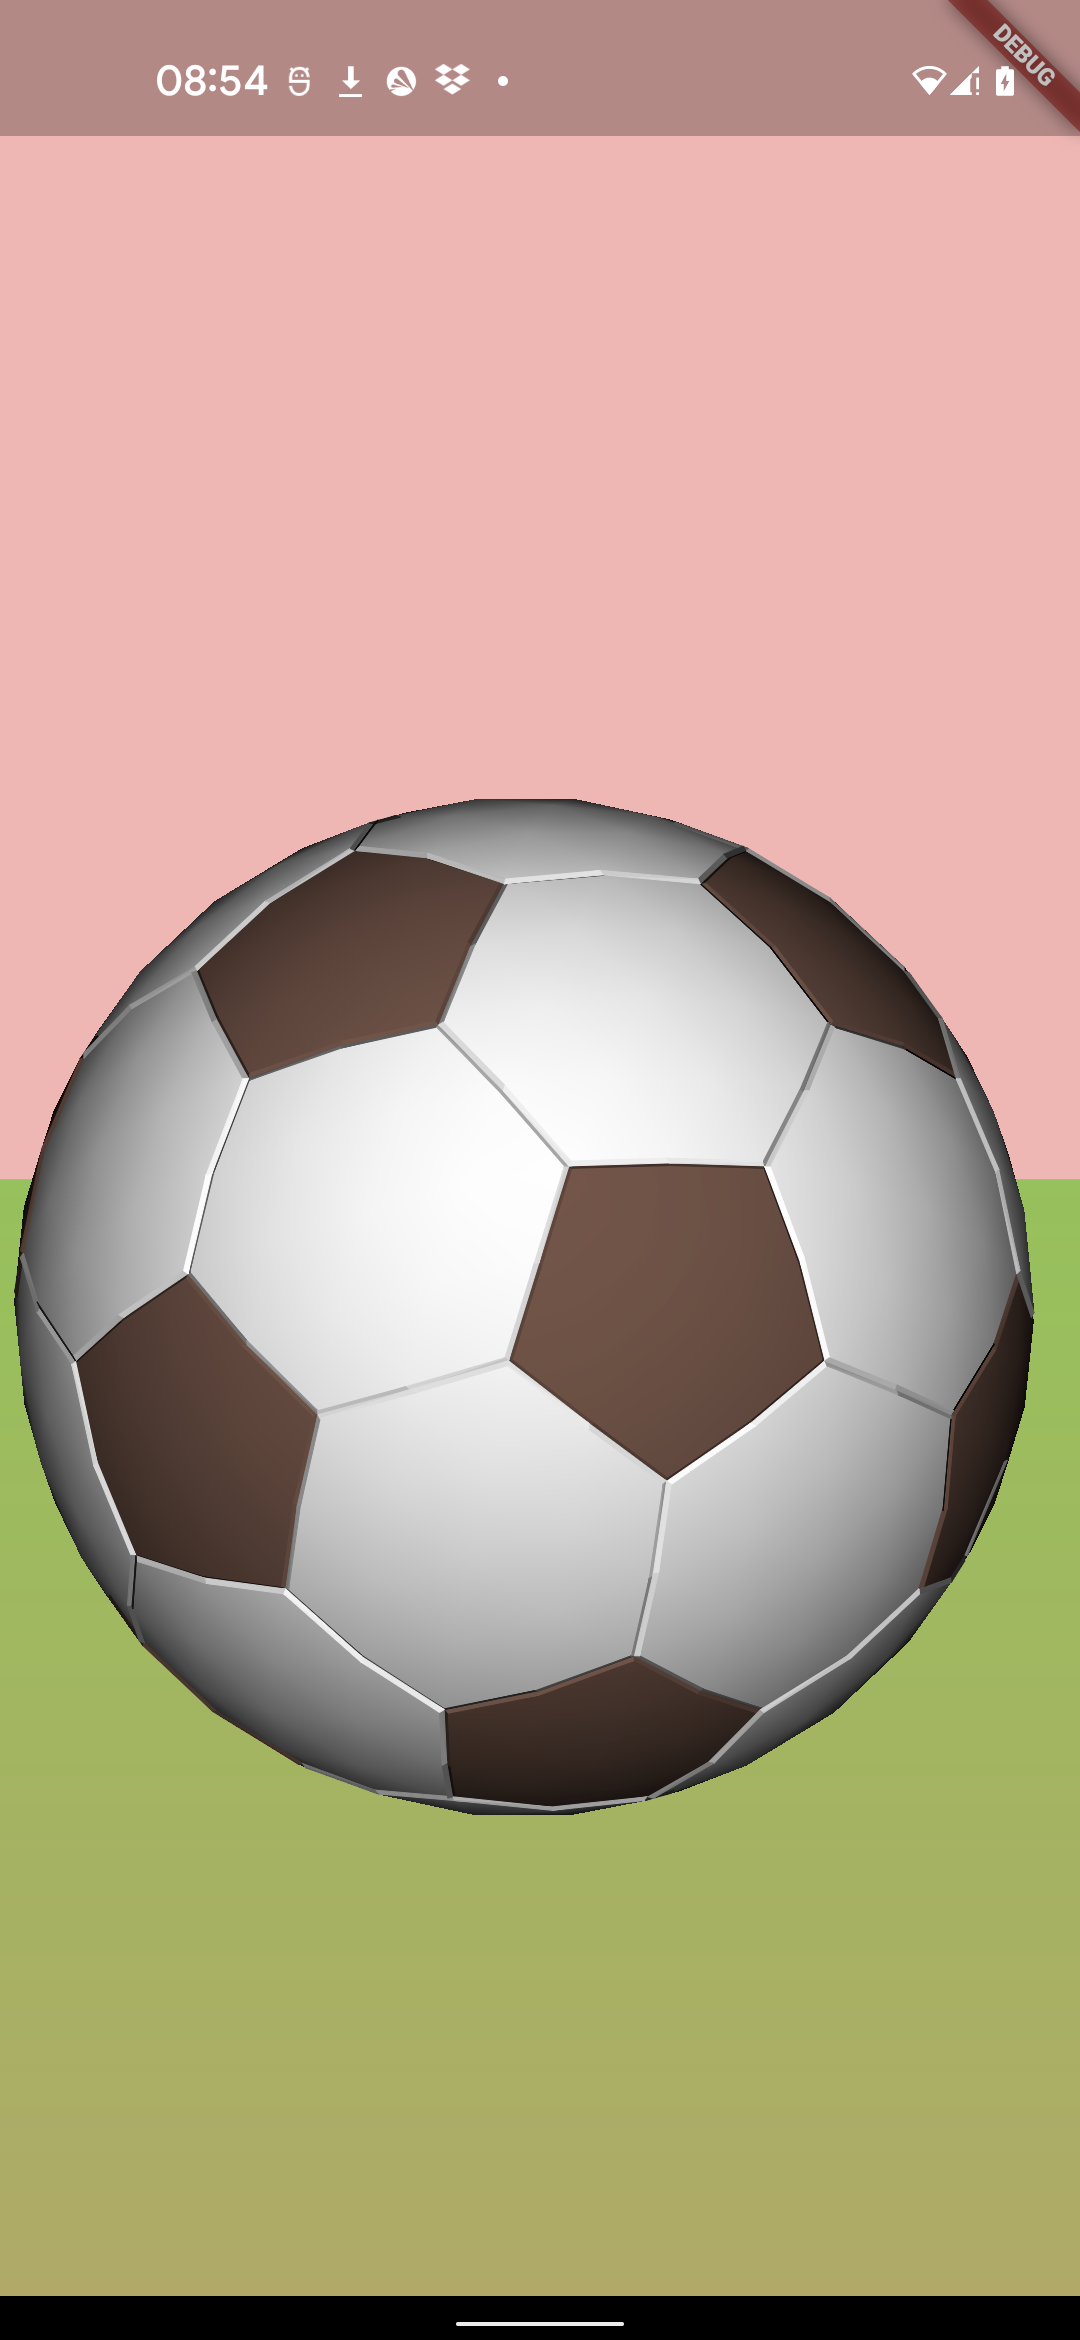
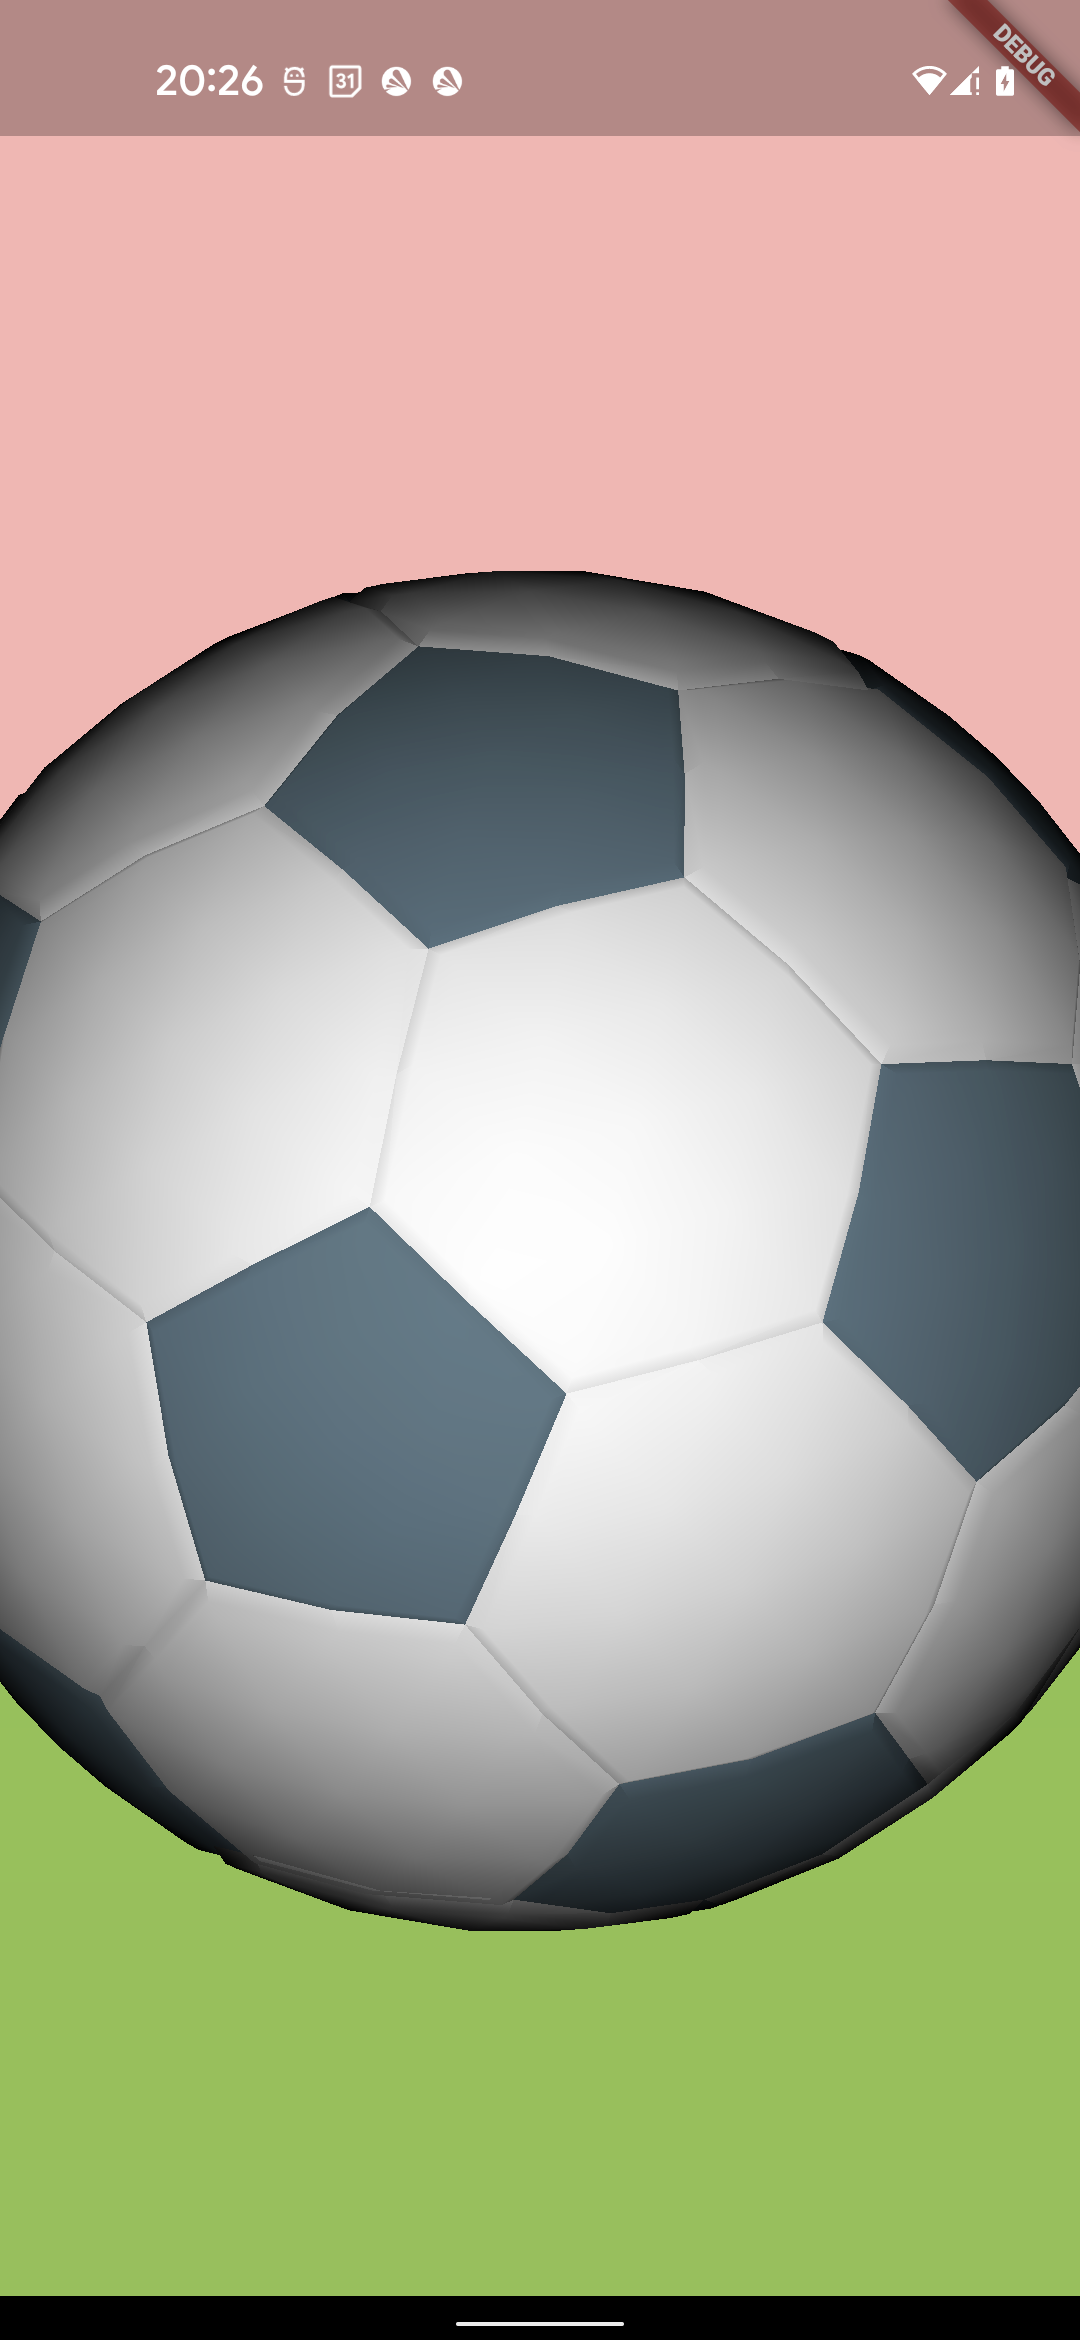
increased _seamDepth and reduced _patchScale. updated screen_shot.png

diff --git a/lib/model/generate.dart b/lib/model/generate.dart
@@ -18,10 +18,13 @@ ShapeData generateShapeData() {
   _normalize(shapeData.vertices2);
 
   for (final vertex in shapeData.vertices2) {
-    vertex.scale(0.992);
+    vertex.scale(_seamDepth);
   }
   return shapeData;
 }
+
+const _seamDepth = 0.985;
+const double _patchScale = 0.85;
 
 /// for each vector coming out from a vertex
 /// go a third of the way along and add that ver (do face the same time)
@@ -124,15 +127,13 @@ ShapeData _subdivideFrequency3(ShapeData old) {
     darkSeam.add(Face(r1, r1_, q2_, c2: true, b2: true));
   }
 
-  double scale = 0.95;
-
   // scale the light hexagons
   for (final lightMesh in lightMeshes) {
     for (final face in lightMesh.faces) {
       final pqr = vertices[face.a];
 
       final s = vertices[face.b];
-      vertices[face.a] = Math3d.scaleFrom(scale, pqr, s);
+      vertices[face.a] = Math3d.scaleFrom(_patchScale, pqr, s);
     }
   }
 
@@ -160,8 +161,10 @@ ShapeData _subdivideFrequency3(ShapeData old) {
     for (final face in darkMesh.faces) {
       final origin = vertices[face.a];
 
-      vertices[face.b] = Math3d.scaleFrom(scale, vertices[face.b], origin);
-      vertices[face.c] = Math3d.scaleFrom(scale, vertices[face.c], origin);
+      vertices[face.b] =
+          Math3d.scaleFrom(_patchScale, vertices[face.b], origin);
+      vertices[face.c] =
+          Math3d.scaleFrom(_patchScale, vertices[face.c], origin);
     }
   }
 
